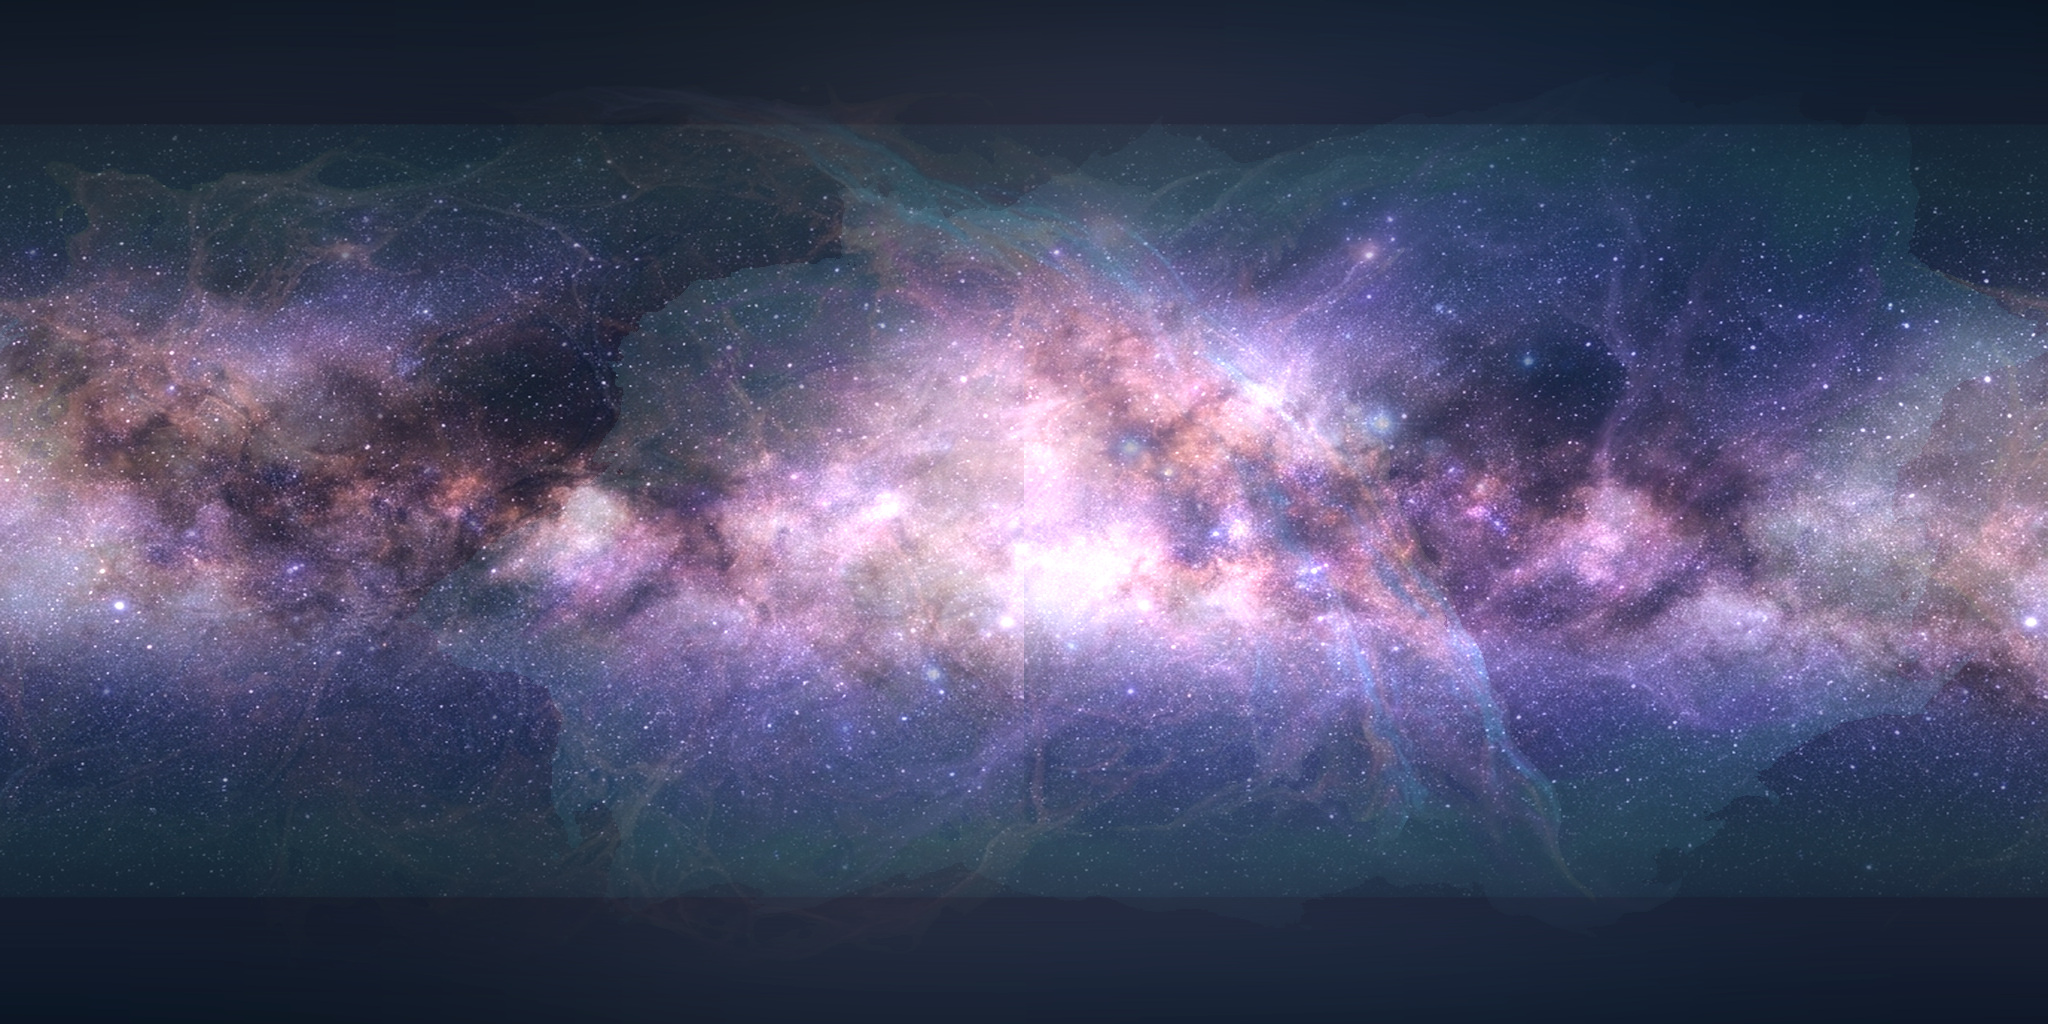
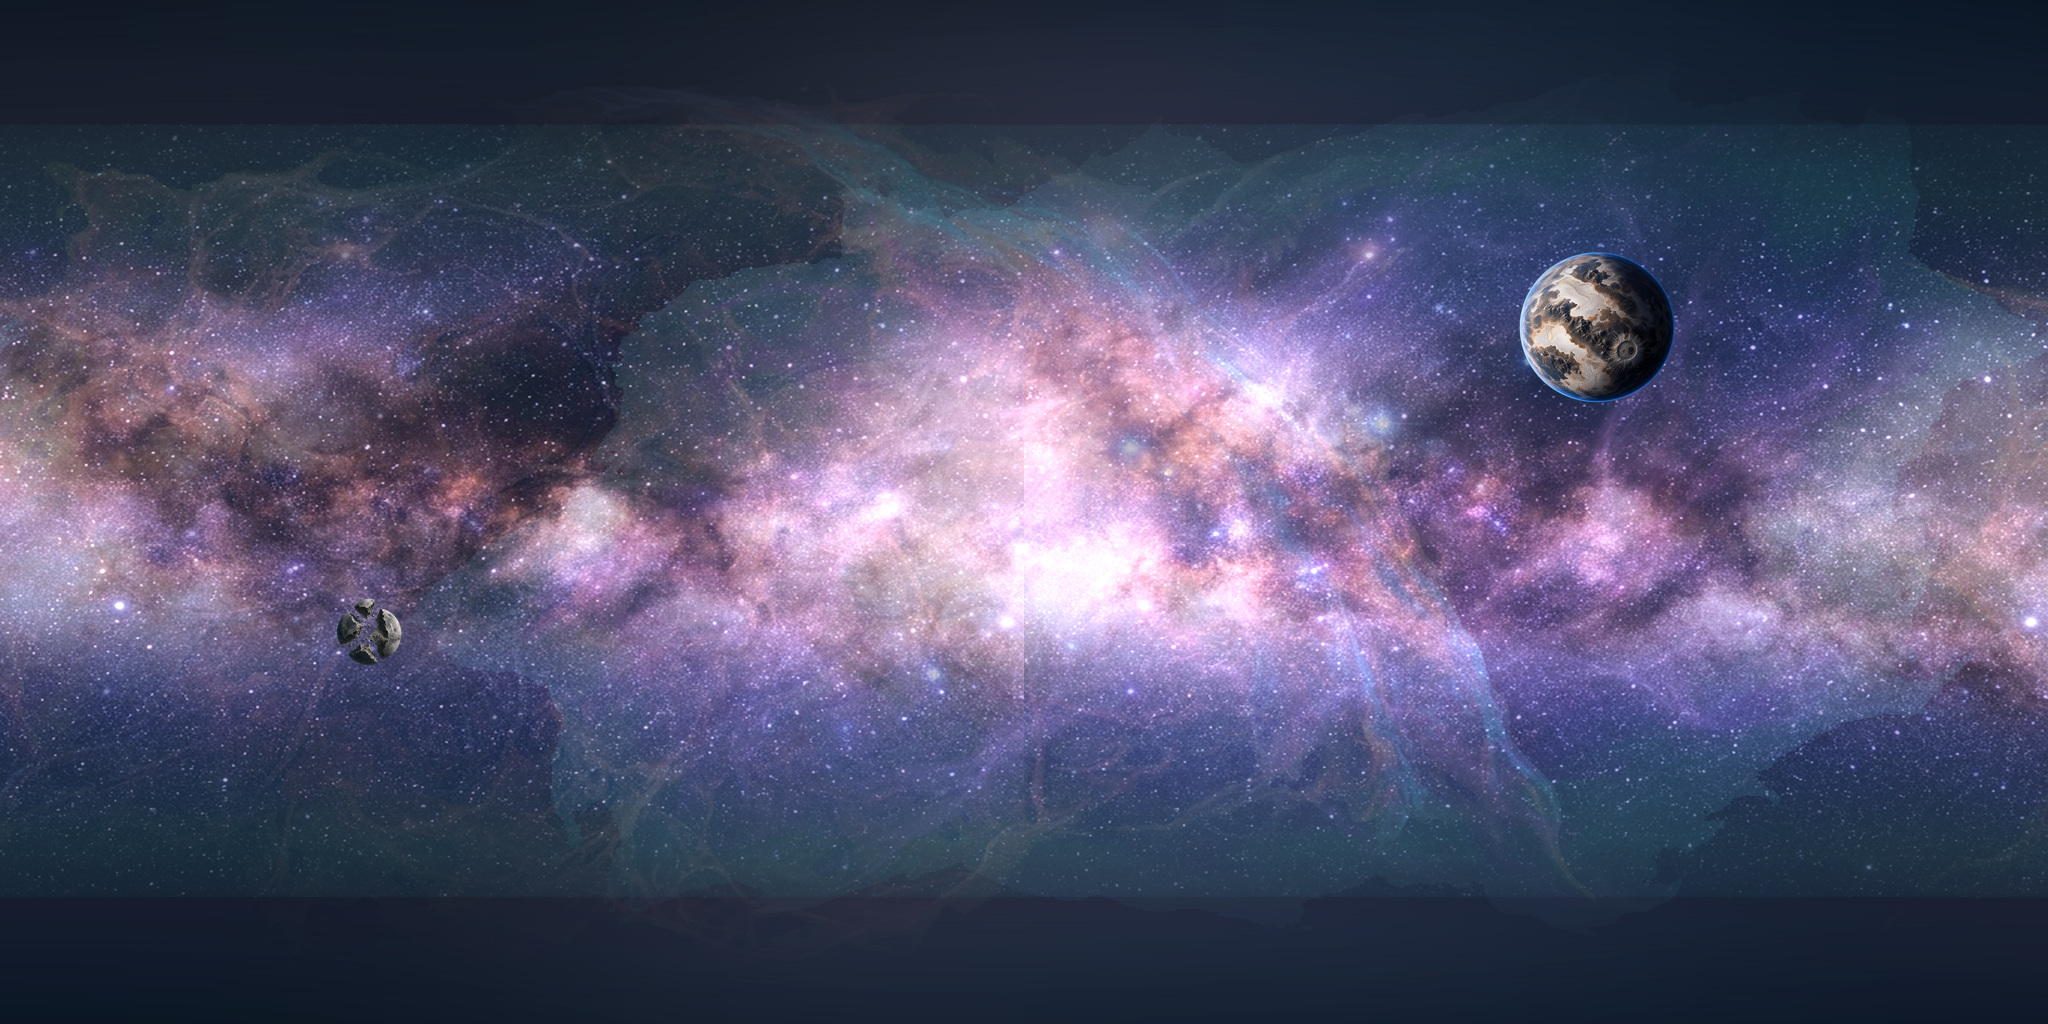
feat(film): carry the game sky onto the bunker planet

Changed region(s): [[0.7188, 0.25, 0.8438, 0.4062], [0.1562, 0.5938, 0.2188, 0.6562]]

diff --git a/scripts/blender/build_ending_scenes.py b/scripts/blender/build_ending_scenes.py
@@ -396,6 +396,31 @@ def _shell_material(name: str, base, roughness: float, metallic: float = 0.0):
     return mat
 
 
+def _fractured_ice_material(name: str):
+    """Procedural bunker-planet ice: blue depth, frost breakup and fine cracks."""
+    mat = _shell_material(name, (0.08, 0.14, 0.22), 0.48, 0.08)
+    nodes = mat.node_tree.nodes
+    links = mat.node_tree.links
+    bsdf = nodes.get("Principled BSDF")
+    tex = nodes.new("ShaderNodeTexNoise")
+    tex.inputs["Scale"].default_value = 3.2
+    tex.inputs["Detail"].default_value = 7.0
+    tex.inputs["Roughness"].default_value = 0.72
+    ramp = nodes.new("ShaderNodeValToRGB")
+    ramp.color_ramp.elements[0].position = 0.28
+    ramp.color_ramp.elements[0].color = (0.012, 0.035, 0.075, 1.0)
+    ramp.color_ramp.elements[1].position = 0.72
+    ramp.color_ramp.elements[1].color = (0.26, 0.48, 0.68, 1.0)
+    bump = nodes.new("ShaderNodeBump")
+    bump.inputs["Strength"].default_value = 0.24
+    bump.inputs["Distance"].default_value = 0.12
+    links.new(tex.outputs["Fac"], ramp.inputs["Fac"])
+    links.new(ramp.outputs["Color"], bsdf.inputs["Base Color"])
+    links.new(tex.outputs["Fac"], bump.inputs["Height"])
+    links.new(bump.outputs["Normal"], bsdf.inputs["Normal"])
+    return mat
+
+
 def build_room_shell(
     scene: bpy.types.Scene,
     collection: bpy.types.Collection,
@@ -463,7 +488,7 @@ def build_room_shell(
         # four walls would box it in and hide the space sky entirely -- the
         # shell exists to stop props floating in void, not to put a roof on the
         # outdoors. Ground is oversized so the horizon reads as distance.
-        floor_mat.node_tree.nodes["Principled BSDF"].inputs["Base Color"].default_value = (0.42, 0.47, 0.55, 1.0)
+        floor_mat = _fractured_ice_material(f"{name_prefix}_FracturedIce")
         bpy.ops.mesh.primitive_plane_add(size=1.0, location=(cx, cy, floor_z))
         ground = bpy.context.active_object
         ground.name = f"{name_prefix}_Ground"
@@ -1683,6 +1708,29 @@ def build_set_d_exterior_ice(scene: bpy.types.Scene, root_col: bpy.types.Collect
         cradle.location = (0, 0, -0.4)
         cradle.scale = (2.0, 2.5, 0.8)
 
+    # The launch site is on the bunker planet, not an abstract studio plane.
+    # Restyled Kenney modules preserve their grid sockets but now carry the
+    # game's cryo/industrial palette. Cave masses establish a broken perimeter;
+    # space rooms and gates make the surviving outpost readable as architecture.
+    planet_modules = (
+        ("public/3d/runtime/kits/modular-space-kit/room-large-variation.glb", "Bunker_Admin_Ruin", (16.0, 24.0, 0.0), 0, 0.35),
+        ("public/3d/runtime/kits/modular-space-kit/room-small.glb", "Bunker_Service_Block", (-16.0, 22.0, 0.0), 18, 0.45),
+        ("public/3d/runtime/kits/modular-space-kit/gate-door-window.glb", "Bunker_Launch_Gate", (7.0, 14.0, 0.0), 90, 0.65),
+        ("public/3d/runtime/kits/modular-cave-kit/room-large-variation.glb", "Cryo_Ridge_West", (-20.0, 16.0, -0.5), 35, 0.38),
+        ("public/3d/runtime/kits/modular-cave-kit/room-wide-variation.glb", "Cryo_Ridge_East", (20.0, 15.0, -0.5), -28, 0.38),
+        ("public/3d/runtime/kits/modular-cave-kit/gate-overhang.glb", "Cryo_Gothic_Overhang", (-9.0, 13.0, -0.2), 12, 0.90),
+        ("public/3d/runtime/kits/modular-cave-kit/stairs-wide.glb", "Cryo_Access_Stairs", (9.0, 12.0, -0.25), 180, 0.40),
+    )
+    planet_dressing = []
+    for asset_path, object_name, location, yaw, uniform_scale in planet_modules:
+        module = import_asset(asset_path, set_col)
+        if module:
+            module.name = object_name
+            module.location = location
+            module.rotation_euler = (0, 0, math.radians(yaw))
+            module.scale = (uniform_scale,) * 3
+            planet_dressing.append(module)
+
     # 3 Beacon Spires along the chasm rims
     beacon_locs = [(-6.5, 8.0, 2.0), (6.5, 5.0, 1.8), (-7.2, -4.0, 3.2)]
     for idx, b_loc in enumerate(beacon_locs, start=1):
@@ -1710,7 +1758,7 @@ def build_set_d_exterior_ice(scene: bpy.types.Scene, root_col: bpy.types.Collect
     set_col.objects.link(fill)
     aim_object_at(fill, (0.0, 0.0, 1.0))
 
-    return {"collection": set_col, "shuttle": shuttle}
+    return {"collection": set_col, "shuttle": shuttle, "planet_dressing": planet_dressing}
 
 
 def setup_scene_mothership_infection(root_col: bpy.types.Collection) -> list[bpy.types.Object]:
@@ -2369,6 +2417,10 @@ def build_ending_scene(ending_name: str, output_path: Path) -> None:
             # preserves EH-03's deliberate refusal to follow the departing ship.
             exterior_cameras = (cams[0], cams[3]) if ending_name == "alien_exodus" else (cams[2], cams[3])
             for camera in exterior_cameras:
+                # New bunker-planet architecture can sit nearer than the ship;
+                # focus the story subject, not whichever skyline module happens
+                # to win a nearest-bounds query in this camera.
+                camera.data.dof.focus_object = shuttle
                 shot_index = int(camera.name.rsplit("_", 1)[1]) - 1
                 midpoint = SHOT_MID_FRAMES[camera.name.split("_")[1]][shot_index]
                 scene.frame_set(midpoint)

diff --git a/scripts/blender/compose_game_space_panorama.py b/scripts/blender/compose_game_space_panorama.py
@@ -23,6 +23,11 @@ LAYERS = (
     ("public/sky/nebula_veil_violet.png", 38.0 / 360.0, 0.42),
     ("public/sky/nebula_veil_ember.png", -57.0 / 360.0, 0.24),
 )
+CELESTIALS = (
+    # path, centre x/y in normalized panorama space, angular-size proxy
+    ("public/sky/body_planet_dead_ocean.png", 0.78, 0.32, 0.16),
+    ("public/sky/body_moon_shattered.png", 0.18, 0.62, 0.085),
+)
 
 
 # The source paintings concentrate their nebula in a horizontal band, so the
@@ -79,6 +84,18 @@ def compose(output: Path) -> None:
         layer = ImageChops.offset(layer, round(size[0] * horizontal_turn), 0)
         layer = ImageEnhance.Brightness(layer).enhance(gain)
         result = ImageChops.add(result, layer, scale=1.0, offset=0)
+    # Celestial bodies remain alpha-composited solids, exactly as in the game.
+    # Their placement is sparse and asymmetric: each acts as a landmark while
+    # leaving most of the orbital frame available for uncomfortable emptiness.
+    result_rgba = result.convert("RGBA")
+    for relative_path, center_x, center_y, size_fraction in CELESTIALS:
+        body = Image.open(ROOT / relative_path).convert("RGBA")
+        diameter = round(size[1] * size_fraction)
+        body.thumbnail((diameter, diameter), Image.Resampling.LANCZOS)
+        left = round(size[0] * center_x - body.width / 2)
+        top = round(size[1] * center_y - body.height / 2)
+        result_rgba.alpha_composite(body, (left, top))
+    result = result_rgba.convert("RGB")
 
     result = fill_polar_caps(result)
     output.parent.mkdir(parents=True, exist_ok=True)

diff --git a/docs/planning/ending-blend-scene-spec-2026-09-13.md b/docs/planning/ending-blend-scene-spec-2026-09-13.md
@@ -209,3 +209,26 @@ Cycles reviews cover all five rims plus AE-04 and EH-03 exterior isolation.
 The review helper is `scripts/blender/render_review_frame.py`. Delivery remains
 at the scene-level Cycles settings (256 samples, 1920x1080, OIDN, AgX Punchy);
 the review helper deliberately overrides only resolution and sample count.
+
+## 7. Game-sky and bunker-planet continuity pass
+
+The exterior endings now use the game's own sky vocabulary rather than an
+unrelated procedural starfield. `compose_game_space_panorama.py` transfers the
+runtime additive layers (`nebula_band_core`, violet veil and ember veil) into an
+opaque 2:1 film panorama, then adds the catalog's dead-ocean planet and
+shattered moon as sparse alpha-composited landmarks. `bake_space_hdri.py`
+promotes that panorama directly to a 32-bit float, 4K EXR with 1.8x linear
+highlight gain. The scene exposes it at 0.18 world strength: stars and nebulae
+remain visible and contribute colored reflections without turning the night
+exterior into daylight.
+
+Space worlds no longer use infinite World Volume Scatter. That medium was
+extinguishing every environment ray, which is why earlier HDR iterations still
+rendered as black. Snow, exhaust and ground haze must use bounded volumes near
+the set.
+
+SET-D is no longer a blank plane. It now has procedural fractured-ice color and
+bump breakup plus a camera-safe, three-depth-band skyline assembled from the
+restyled modular cave and space kits: launch gate and access pieces nearest,
+ruined bunker rooms behind them, and cryo ridge masses on the far edge. The
+same assets therefore identify the playable bunker planet and its ending films.

diff --git a/docs/planning/world-kits-daycycle-and-interiors-2026-09-13.md b/docs/planning/world-kits-daycycle-and-interiors-2026-09-13.md
@@ -172,6 +172,11 @@ camera. They are independent enough to land separately.
 
 - 2026-09-13 — kits acquired and verified CC0; cave/space grammar identity
   found; plan written.
+- 2026-09-13 — cinematic continuity pass reuses the restyled cave/space kits in
+  SET-D and transfers the runtime sky layers into the 4K film HDR. Long renders
+  were stopped non-destructively with 893 completed frames preserved; they must
+  restart only after the bunker-planet contact sheet passes, so blank floors or
+  missing planetary architecture cannot consume another multi-hour render.
 
 
 ---
